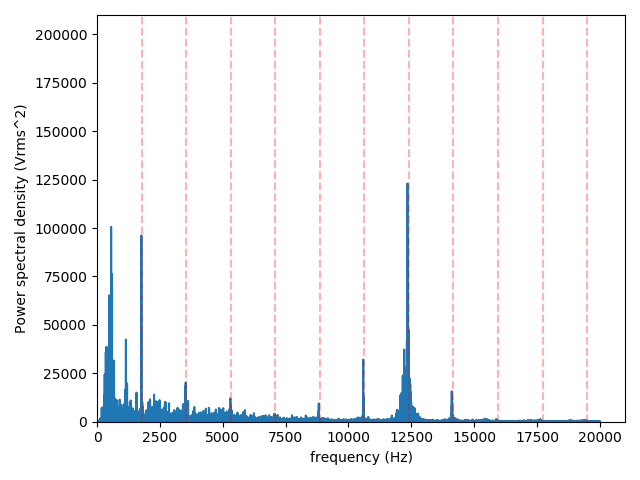
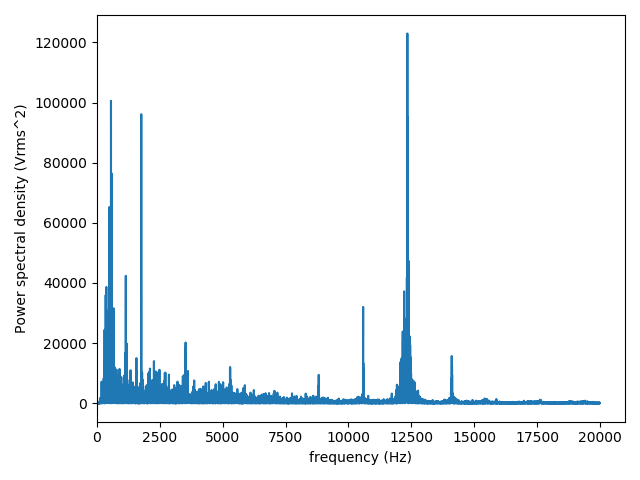
actually finished the lab fuck

diff --git a/Engineering/Prop_and_Turbo/Lab 1/Lab1.py b/Engineering/Prop_and_Turbo/Lab 1/Lab1.py
@@ -1,6 +1,7 @@
 import pandas as pd 
 import matplotlib.pyplot as plt
 from scipy.fft import fft
+from scipy import signal
 import numpy as np
 %matplotlib qt
 
@@ -32,7 +33,9 @@ def microphone_signal(data,title,estimate):
 
 
     fhat=np.fft.fft(mic_pressure,n)
+    print(fhat)
     PSD=fhat*np.conj(fhat)/n
+    #f,PSD = signal.periodogram(fhat,4000)
     freq=(1/(dt*n))*np.arange(n)
     L=np.arange(1,np.floor(n/2),dtype='int')
     
@@ -60,12 +63,12 @@ def microphone_signal(data,title,estimate):
     #print(number_of_lines)
     for i in range(1,number_of_lines+1):
         #print(i)
-        plt.plot([i*estimate,i*estimate],[0,210000],'r--',alpha=0.3)
+        #plt.plot([i*estimate,i*estimate],[0,210000],'r--',alpha=0.3)
         pass
     #plt.text(0,100000,"dont copy",size=50)
     plt.xlabel("frequency (Hz)")
     plt.ylabel("Power spectral density (Vrms^2)")
-    plt.ylim(0,210000)
+    #plt.ylim(0,210000)
     plt.xlim(0)
     plt.tight_layout()
     plt.show()
@@ -83,7 +86,7 @@ def scipy_python_test(data,title):
     xf = np.linspace(0.0, 1.0/(2.0*T), N//2)
     plt.figure(figure_n)
     figure_n+=1
-    plt.plot(xf,np.abs(yf[0:N//2]))
+    plt.plot(xf,2.0/N*np.abs(yf[0:N//2]))
     #plt.plot(xf, 2.0/N * np.abs(yf[0:N//2]))
     plt.title(title)
     plt.show()
@@ -146,7 +149,33 @@ def square_wave(data,title):
     plt.show()
     plt.savefig(f"{title}.png")
 
-square_wave(data148,"Square wave")
+
+def fft_matlab_example(data):
+    Fs=40000
+    t=data["time"]
+    T=1/Fs
+    L=1000
+
+    mic_sens=0.0495
+    mic_pressure=data["microphone signal"]/mic_sens
+
+    Y = np.fft.fft(mic_pressure)
+
+    P2=abs(Y/L)
+    print((L/2)+1)
+    P1= P2[0:int(L/2)]
+    P1*=2
+
+    f=(Fs/L)*(np.arange(0,L/2))
+    plt.plot(f,P1,linewidth=1)
+    plt.title("Fourier Transform of microphone signal")
+    plt.xlabel("frequency (Hz)")
+    plt.ylabel("|Pressure (Pa)|")
+    plt.xlim(0,20000)
+    plt.ylim(0,80)
+    plt.savefig("2388083M_PropLab_Fourier.png")
+
+#square_wave(data148,"Square wave")
 #square_wave(data192,"192 Square wave")
 
 #microphone_signal(data148,"Thrust=148N",1646)
@@ -154,3 +183,5 @@ square_wave(data148,"Square wave")
 
 #scipy_python_test(data148,"Scipy 148")
 #scipy_python_test(data192,"Scipy 192")
+
+fft_matlab_example(data148)
